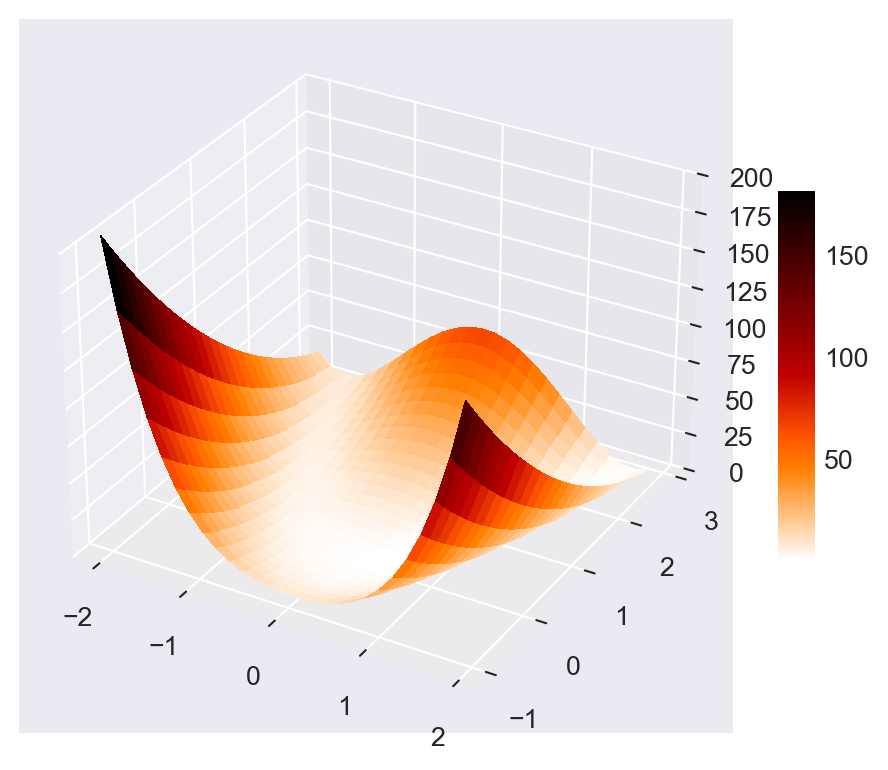
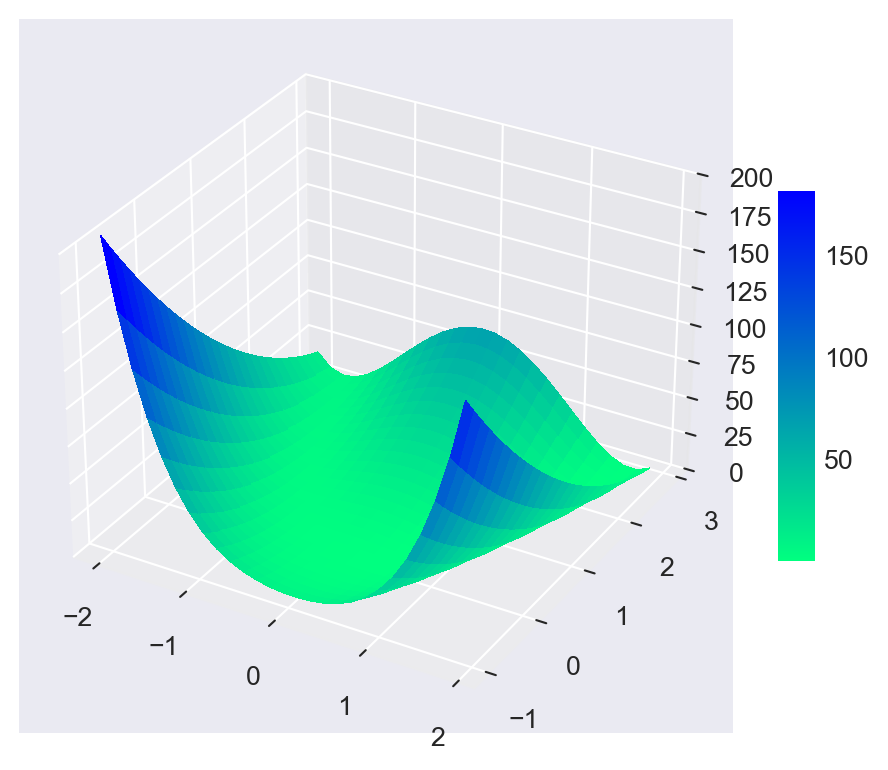
Chapter 5 is updated.

Changed region(s): [[0.0912, 0.3117, 0.7297, 0.8104], [0.8514, 0.2494, 0.9426, 0.7481]]

diff --git a/docs/Chapter0-StatFunctions.html b/docs/Chapter0-StatFunctions.html
@@ -483,7 +483,7 @@ window.Quarto = {
 <section id="introduction" class="level2" data-number="5.1">
 <h2 data-number="5.1" class="anchored" data-anchor-id="introduction"><span class="header-section-number">5.1</span> Introduction</h2>
 <p>In this chapter, we first introduce statistical functions from NumPy and SciPy. These libraries offer a wide range of tools for generating random numbers, evaluating probability density and cumulative distribution functions, and determining quantiles/percentiles. We then explore optimization and root-finding functions available in SciPy.</p>
-<div id="fadbeeae" class="cell" data-execution_count="1">
+<div id="ef7dda58" class="cell" data-execution_count="1">
 <div class="sourceCode cell-code" id="cb1"><pre class="sourceCode python code-with-copy"><code class="sourceCode python"><span id="cb1-1"><a href="#cb1-1" aria-hidden="true" tabindex="-1"></a><span class="im">import</span> numpy <span class="im">as</span> np</span>
 <span id="cb1-2"><a href="#cb1-2" aria-hidden="true" tabindex="-1"></a><span class="im">import</span> scipy.stats <span class="im">as</span> stats</span>
 <span id="cb1-3"><a href="#cb1-3" aria-hidden="true" tabindex="-1"></a><span class="im">import</span> scipy.optimize <span class="im">as</span> optimize</span>
@@ -517,76 +517,76 @@ window.Quarto = {
 <li><code>uniform</code>: Generates draws from the interval <span class="math inline">\((0,1)\)</span>.</li>
 </ul>
 <p>Some illustrative examples are provided below.</p>
-<div id="734fd467" class="cell" data-execution_count="3">
+<div id="d74a49e9" class="cell" data-execution_count="3">
 <div class="sourceCode cell-code" id="cb2"><pre class="sourceCode python code-with-copy"><code class="sourceCode python"><span id="cb2-1"><a href="#cb2-1" aria-hidden="true" tabindex="-1"></a><span class="co"># Generate 3x2x3 array of draws from the uniform distribution on [0,1)</span></span>
 <span id="cb2-2"><a href="#cb2-2" aria-hidden="true" tabindex="-1"></a>x <span class="op">=</span> np.random.rand(<span class="dv">3</span>, <span class="dv">2</span>, <span class="dv">3</span>)</span>
 <span id="cb2-3"><a href="#cb2-3" aria-hidden="true" tabindex="-1"></a>x</span></code><button title="Copy to Clipboard" class="code-copy-button"><i class="bi"></i></button></pre></div>
-<div class="cell-output cell-output-display" data-execution_count="30">
-<pre><code>array([[[0.2874544 , 0.80881193, 0.95971886],
-        [0.43911861, 0.2644765 , 0.54531665]],
+<div class="cell-output cell-output-display" data-execution_count="3">
+<pre><code>array([[[0.60784483, 0.02573374, 0.81731308],
+        [0.59381353, 0.52406335, 0.12350366]],
 
-       [[0.83466171, 0.05206236, 0.16116873],
-        [0.04260948, 0.0053757 , 0.37884922]],
+       [[0.978141  , 0.55747264, 0.40465122],
+        [0.33204797, 0.03814546, 0.27382862]],
 
-       [[0.97719024, 0.16863573, 0.68919887],
-        [0.553627  , 0.29353745, 0.09474167]]])</code></pre>
+       [[0.22703661, 0.03394159, 0.63700784],
+        [0.12510244, 0.84140556, 0.85537359]]])</code></pre>
 </div>
 </div>
-<div id="0a9f1bea" class="cell" data-execution_count="4">
+<div id="16f7a7fe" class="cell" data-execution_count="4">
 <div class="sourceCode cell-code" id="cb4"><pre class="sourceCode python code-with-copy"><code class="sourceCode python"><span id="cb4-1"><a href="#cb4-1" aria-hidden="true" tabindex="-1"></a><span class="co"># Generate 3x2 array of draws from the standard normal distribution</span></span>
 <span id="cb4-2"><a href="#cb4-2" aria-hidden="true" tabindex="-1"></a>y <span class="op">=</span> np.random.standard_normal((<span class="dv">3</span>, <span class="dv">2</span>))</span>
 <span id="cb4-3"><a href="#cb4-3" aria-hidden="true" tabindex="-1"></a>y</span></code><button title="Copy to Clipboard" class="code-copy-button"><i class="bi"></i></button></pre></div>
-<div class="cell-output cell-output-display" data-execution_count="31">
-<pre><code>array([[ 0.06119195, -0.02129899],
-       [-0.28799024,  0.0891746 ],
-       [ 0.52285773,  0.57279645]])</code></pre>
+<div class="cell-output cell-output-display" data-execution_count="4">
+<pre><code>array([[ 0.68428068, -0.0148527 ],
+       [ 1.3792982 , -0.90628224],
+       [ 0.03147799, -0.18123082]])</code></pre>
 </div>
 </div>
-<div id="690a88ea" class="cell" data-execution_count="5">
+<div id="b3f88e48" class="cell" data-execution_count="5">
 <div class="sourceCode cell-code" id="cb6"><pre class="sourceCode python code-with-copy"><code class="sourceCode python"><span id="cb6-1"><a href="#cb6-1" aria-hidden="true" tabindex="-1"></a><span class="co"># Randomly order the elements of an array</span></span>
 <span id="cb6-2"><a href="#cb6-2" aria-hidden="true" tabindex="-1"></a>x <span class="op">=</span> np.arange(<span class="dv">10</span>)</span>
 <span id="cb6-3"><a href="#cb6-3" aria-hidden="true" tabindex="-1"></a>np.random.shuffle(x)</span>
 <span id="cb6-4"><a href="#cb6-4" aria-hidden="true" tabindex="-1"></a>x</span></code><button title="Copy to Clipboard" class="code-copy-button"><i class="bi"></i></button></pre></div>
-<div class="cell-output cell-output-display" data-execution_count="32">
-<pre><code>array([3, 9, 8, 7, 5, 0, 4, 6, 2, 1])</code></pre>
+<div class="cell-output cell-output-display" data-execution_count="5">
+<pre><code>array([6, 8, 7, 9, 1, 2, 0, 4, 5, 3])</code></pre>
 </div>
 </div>
-<div id="58be579f" class="cell" data-execution_count="6">
+<div id="6bd0f309" class="cell" data-execution_count="6">
 <div class="sourceCode cell-code" id="cb8"><pre class="sourceCode python code-with-copy"><code class="sourceCode python"><span id="cb8-1"><a href="#cb8-1" aria-hidden="true" tabindex="-1"></a><span class="co"># Generate 10 draws from N(mu, sigma)</span></span>
 <span id="cb8-2"><a href="#cb8-2" aria-hidden="true" tabindex="-1"></a>mu, sigma <span class="op">=</span> <span class="dv">2</span>, <span class="fl">1.5</span></span>
 <span id="cb8-3"><a href="#cb8-3" aria-hidden="true" tabindex="-1"></a>s <span class="op">=</span> np.random.normal(mu, sigma, <span class="dv">10</span>)</span>
 <span id="cb8-4"><a href="#cb8-4" aria-hidden="true" tabindex="-1"></a>s</span></code><button title="Copy to Clipboard" class="code-copy-button"><i class="bi"></i></button></pre></div>
-<div class="cell-output cell-output-display" data-execution_count="33">
-<pre><code>array([-0.64055754, -0.54146874,  1.45642873,  3.69117893,  5.27574522,
-        0.22006583,  2.50140454,  0.45741679,  1.74725663,  0.50157746])</code></pre>
+<div class="cell-output cell-output-display" data-execution_count="6">
+<pre><code>array([2.3078164 , 2.97309842, 4.91422971, 2.36405954, 2.59558455,
+       2.23165732, 1.78140857, 0.99669208, 2.18192879, 4.70281642])</code></pre>
 </div>
 </div>
-<div id="9778f766" class="cell" data-execution_count="7">
+<div id="e4f44bb7" class="cell" data-execution_count="7">
 <div class="sourceCode cell-code" id="cb10"><pre class="sourceCode python code-with-copy"><code class="sourceCode python"><span id="cb10-1"><a href="#cb10-1" aria-hidden="true" tabindex="-1"></a><span class="co"># Generate 20 draws from Binomial(n, p)</span></span>
 <span id="cb10-2"><a href="#cb10-2" aria-hidden="true" tabindex="-1"></a>n, p <span class="op">=</span> <span class="dv">10</span>, <span class="fl">0.5</span>  <span class="co"># number of trials, probability of each trial</span></span>
 <span id="cb10-3"><a href="#cb10-3" aria-hidden="true" tabindex="-1"></a>s <span class="op">=</span> np.random.binomial(n, p, <span class="dv">20</span>)</span>
 <span id="cb10-4"><a href="#cb10-4" aria-hidden="true" tabindex="-1"></a>s</span></code><button title="Copy to Clipboard" class="code-copy-button"><i class="bi"></i></button></pre></div>
-<div class="cell-output cell-output-display" data-execution_count="34">
-<pre><code>array([4, 4, 4, 7, 4, 4, 5, 3, 9, 5, 6, 3, 3, 4, 6, 4, 1, 4, 4, 4])</code></pre>
+<div class="cell-output cell-output-display" data-execution_count="7">
+<pre><code>array([4, 4, 3, 7, 5, 4, 4, 4, 4, 7, 4, 5, 7, 4, 6, 6, 5, 4, 5, 5])</code></pre>
 </div>
 </div>
-<div id="b4cf0391" class="cell" data-execution_count="8">
+<div id="b4fd8973" class="cell" data-execution_count="8">
 <div class="sourceCode cell-code" id="cb12"><pre class="sourceCode python code-with-copy"><code class="sourceCode python"><span id="cb12-1"><a href="#cb12-1" aria-hidden="true" tabindex="-1"></a><span class="co"># Generate 4 draws from the chi-squared distribution with 2 degrees of freedom</span></span>
 <span id="cb12-2"><a href="#cb12-2" aria-hidden="true" tabindex="-1"></a>nu, n <span class="op">=</span> <span class="dv">2</span>, <span class="dv">4</span>  <span class="co"># degrees of freedom, number of draws</span></span>
 <span id="cb12-3"><a href="#cb12-3" aria-hidden="true" tabindex="-1"></a>np.random.chisquare(nu, n)</span></code><button title="Copy to Clipboard" class="code-copy-button"><i class="bi"></i></button></pre></div>
-<div class="cell-output cell-output-display" data-execution_count="35">
-<pre><code>array([0.59588492, 3.29344885, 4.28623073, 2.06828554])</code></pre>
+<div class="cell-output cell-output-display" data-execution_count="8">
+<pre><code>array([0.49767112, 0.65872583, 2.37193168, 0.00393188])</code></pre>
 </div>
 </div>
-<div id="0e217408" class="cell" data-execution_count="9">
+<div id="4a508341" class="cell" data-execution_count="9">
 <div class="sourceCode cell-code" id="cb14"><pre class="sourceCode python code-with-copy"><code class="sourceCode python"><span id="cb14-1"><a href="#cb14-1" aria-hidden="true" tabindex="-1"></a><span class="co"># Generate 5 draws from the Student's t distribution with 10 degrees of freedom</span></span>
 <span id="cb14-2"><a href="#cb14-2" aria-hidden="true" tabindex="-1"></a>np.random.standard_t(df<span class="op">=</span><span class="dv">10</span>, size<span class="op">=</span><span class="dv">5</span>)</span></code><button title="Copy to Clipboard" class="code-copy-button"><i class="bi"></i></button></pre></div>
-<div class="cell-output cell-output-display" data-execution_count="36">
-<pre><code>array([-2.05722723,  0.33383089, -0.89291544, -1.65027523, -0.25693324])</code></pre>
+<div class="cell-output cell-output-display" data-execution_count="9">
+<pre><code>array([-1.96610895,  0.08689912, -0.61987483,  2.14423721,  0.91679261])</code></pre>
 </div>
 </div>
 <p>Computer-simulated random numbers are not truly random; they are generally referred to as pseudo-random numbers. The function <code>np.random.seed()</code> is useful for initializing the random number generator, allowing for the generation of the same sequence of random numbers by setting the seed. In the example below, we set the seed to 12345 and generate 5 random draws from the standard normal distribution twice. Since we use the same seed in each case, we obtain the same random numbers in both instances.</p>
-<div id="2f649ada" class="cell" data-execution_count="10">
+<div id="a81356cf" class="cell" data-execution_count="10">
 <div class="sourceCode cell-code" id="cb16"><pre class="sourceCode python code-with-copy"><code class="sourceCode python"><span id="cb16-1"><a href="#cb16-1" aria-hidden="true" tabindex="-1"></a><span class="co"># Set the seed for reproducibility</span></span>
 <span id="cb16-2"><a href="#cb16-2" aria-hidden="true" tabindex="-1"></a>np.random.seed(<span class="dv">12345</span>)</span>
 <span id="cb16-3"><a href="#cb16-3" aria-hidden="true" tabindex="-1"></a>x <span class="op">=</span> np.random.randn(<span class="dv">5</span>)</span>
@@ -594,10 +594,10 @@ window.Quarto = {
 <span id="cb16-5"><a href="#cb16-5" aria-hidden="true" tabindex="-1"></a>np.random.seed(<span class="dv">12345</span>)</span>
 <span id="cb16-6"><a href="#cb16-6" aria-hidden="true" tabindex="-1"></a>y <span class="op">=</span> np.random.randn(<span class="dv">5</span>)</span>
 <span id="cb16-7"><a href="#cb16-7" aria-hidden="true" tabindex="-1"></a>y</span></code><button title="Copy to Clipboard" class="code-copy-button"><i class="bi"></i></button></pre></div>
-<div class="cell-output cell-output-display" data-execution_count="37">
+<div class="cell-output cell-output-display" data-execution_count="10">
 <pre><code>array([-0.20470766,  0.47894334, -0.51943872, -0.5557303 ,  1.96578057])</code></pre>
 </div>
-<div class="cell-output cell-output-display" data-execution_count="37">
+<div class="cell-output cell-output-display" data-execution_count="10">
 <pre><code>array([-0.20470766,  0.47894334, -0.51943872, -0.5557303 ,  1.96578057])</code></pre>
 </div>
 </div>
@@ -631,35 +631,35 @@ window.Quarto = {
 <li><code>moment</code>: Returns the <span class="math inline">\(n\)</span>th non-central moment of the distribution.</li>
 </ul>
 <p>The documentation on these methods is given at <a href="https://docs.scipy.org/doc/scipy/reference/stats.html">Statistical functions</a>. Some illustrative examples are shown below.</p>
-<div id="b62f1051" class="cell" data-execution_count="11">
+<div id="13a346e2" class="cell" data-execution_count="11">
 <div class="sourceCode cell-code" id="cb19"><pre class="sourceCode python code-with-copy"><code class="sourceCode python"><span id="cb19-1"><a href="#cb19-1" aria-hidden="true" tabindex="-1"></a><span class="co"># Generate 4 draws from N(2,9)</span></span>
 <span id="cb19-2"><a href="#cb19-2" aria-hidden="true" tabindex="-1"></a>stats.norm.rvs(loc<span class="op">=</span><span class="dv">2</span>, scale<span class="op">=</span><span class="dv">3</span>, size<span class="op">=</span><span class="dv">4</span>)</span></code><button title="Copy to Clipboard" class="code-copy-button"><i class="bi"></i></button></pre></div>
-<div class="cell-output cell-output-display" data-execution_count="38">
+<div class="cell-output cell-output-display" data-execution_count="11">
 <pre><code>array([6.1802175 , 2.27872363, 2.84523846, 4.3070677 ])</code></pre>
 </div>
 </div>
-<div id="70d4fc15" class="cell" data-execution_count="12">
+<div id="32a9c777" class="cell" data-execution_count="12">
 <div class="sourceCode cell-code" id="cb21"><pre class="sourceCode python code-with-copy"><code class="sourceCode python"><span id="cb21-1"><a href="#cb21-1" aria-hidden="true" tabindex="-1"></a><span class="co"># Evaluate the pdf of the standard normal distribution at 1.96</span></span>
 <span id="cb21-2"><a href="#cb21-2" aria-hidden="true" tabindex="-1"></a>stats.norm.pdf(<span class="fl">1.96</span>, loc<span class="op">=</span><span class="dv">0</span>, scale<span class="op">=</span><span class="dv">1</span>)</span></code><button title="Copy to Clipboard" class="code-copy-button"><i class="bi"></i></button></pre></div>
-<div class="cell-output cell-output-display" data-execution_count="39">
+<div class="cell-output cell-output-display" data-execution_count="12">
 <pre><code>0.058440944333451476</code></pre>
 </div>
 </div>
-<div id="741fb9cb" class="cell" data-execution_count="13">
+<div id="ad648c47" class="cell" data-execution_count="13">
 <div class="sourceCode cell-code" id="cb23"><pre class="sourceCode python code-with-copy"><code class="sourceCode python"><span id="cb23-1"><a href="#cb23-1" aria-hidden="true" tabindex="-1"></a><span class="co"># Evaluate the cdf of the standard normal distribution at -1.96</span></span>
 <span id="cb23-2"><a href="#cb23-2" aria-hidden="true" tabindex="-1"></a>stats.norm.cdf(<span class="op">-</span><span class="fl">1.96</span>, loc<span class="op">=</span><span class="dv">0</span>, scale<span class="op">=</span><span class="dv">1</span>)</span></code><button title="Copy to Clipboard" class="code-copy-button"><i class="bi"></i></button></pre></div>
-<div class="cell-output cell-output-display" data-execution_count="40">
+<div class="cell-output cell-output-display" data-execution_count="13">
 <pre><code>0.024997895148220435</code></pre>
 </div>
 </div>
-<div id="80d6bfda" class="cell" data-execution_count="14">
+<div id="5aa00f5e" class="cell" data-execution_count="14">
 <div class="sourceCode cell-code" id="cb25"><pre class="sourceCode python code-with-copy"><code class="sourceCode python"><span id="cb25-1"><a href="#cb25-1" aria-hidden="true" tabindex="-1"></a><span class="co"># Return the 0.95 quantile of N(0,1)</span></span>
 <span id="cb25-2"><a href="#cb25-2" aria-hidden="true" tabindex="-1"></a>stats.norm.ppf(<span class="fl">0.95</span>, loc<span class="op">=</span><span class="dv">0</span>, scale<span class="op">=</span><span class="dv">1</span>)</span></code><button title="Copy to Clipboard" class="code-copy-button"><i class="bi"></i></button></pre></div>
-<div class="cell-output cell-output-display" data-execution_count="41">
+<div class="cell-output cell-output-display" data-execution_count="14">
 <pre><code>1.6448536269514722</code></pre>
 </div>
 </div>
-<div id="6aea365b" class="cell" data-execution_count="15">
+<div id="5bdb8f6d" class="cell" data-execution_count="15">
 <div class="sourceCode cell-code" id="cb27"><pre class="sourceCode python code-with-copy"><code class="sourceCode python"><span id="cb27-1"><a href="#cb27-1" aria-hidden="true" tabindex="-1"></a><span class="co"># Fit the normal distribution to data</span></span>
 <span id="cb27-2"><a href="#cb27-2" aria-hidden="true" tabindex="-1"></a>x <span class="op">=</span> stats.norm.rvs(loc<span class="op">=</span><span class="dv">1</span>, scale<span class="op">=</span><span class="dv">5</span>, size<span class="op">=</span><span class="dv">1000</span>)</span>
 <span id="cb27-3"><a href="#cb27-3" aria-hidden="true" tabindex="-1"></a>location, scale <span class="op">=</span> stats.norm.fit(x)</span>
@@ -668,45 +668,45 @@ window.Quarto = {
 <pre><code>(location, scale)= (0.9694060807470053, 4.905952684899126)</code></pre>
 </div>
 </div>
-<div id="aa9279f6" class="cell" data-execution_count="16">
+<div id="fbbd436a" class="cell" data-execution_count="16">
 <div class="sourceCode cell-code" id="cb29"><pre class="sourceCode python code-with-copy"><code class="sourceCode python"><span id="cb29-1"><a href="#cb29-1" aria-hidden="true" tabindex="-1"></a><span class="co"># Return the median of N(3,1)</span></span>
 <span id="cb29-2"><a href="#cb29-2" aria-hidden="true" tabindex="-1"></a>stats.norm.median(loc<span class="op">=</span><span class="dv">3</span>, scale<span class="op">=</span><span class="dv">1</span>)</span></code><button title="Copy to Clipboard" class="code-copy-button"><i class="bi"></i></button></pre></div>
-<div class="cell-output cell-output-display" data-execution_count="43">
+<div class="cell-output cell-output-display" data-execution_count="16">
 <pre><code>3.0</code></pre>
 </div>
 </div>
-<div id="528afd22" class="cell" data-execution_count="17">
+<div id="608d0f38" class="cell" data-execution_count="17">
 <div class="sourceCode cell-code" id="cb31"><pre class="sourceCode python code-with-copy"><code class="sourceCode python"><span id="cb31-1"><a href="#cb31-1" aria-hidden="true" tabindex="-1"></a><span class="co"># Return the mean of N(3,4)</span></span>
 <span id="cb31-2"><a href="#cb31-2" aria-hidden="true" tabindex="-1"></a>stats.norm.mean(loc<span class="op">=</span><span class="dv">3</span>, scale<span class="op">=</span><span class="dv">2</span>)</span></code><button title="Copy to Clipboard" class="code-copy-button"><i class="bi"></i></button></pre></div>
-<div class="cell-output cell-output-display" data-execution_count="44">
+<div class="cell-output cell-output-display" data-execution_count="17">
 <pre><code>3.0</code></pre>
 </div>
 </div>
-<div id="810bc05a" class="cell" data-execution_count="18">
+<div id="5f12ba84" class="cell" data-execution_count="18">
 <div class="sourceCode cell-code" id="cb33"><pre class="sourceCode python code-with-copy"><code class="sourceCode python"><span id="cb33-1"><a href="#cb33-1" aria-hidden="true" tabindex="-1"></a><span class="co"># Return the mean of chi-squared distribution with 4 degrees of freedom</span></span>
 <span id="cb33-2"><a href="#cb33-2" aria-hidden="true" tabindex="-1"></a>stats.chi2.mean(df<span class="op">=</span><span class="dv">4</span>)</span></code><button title="Copy to Clipboard" class="code-copy-button"><i class="bi"></i></button></pre></div>
-<div class="cell-output cell-output-display" data-execution_count="45">
+<div class="cell-output cell-output-display" data-execution_count="18">
 <pre><code>4.0</code></pre>
 </div>
 </div>
-<div id="69fd376c" class="cell" data-execution_count="19">
+<div id="7e70bf1b" class="cell" data-execution_count="19">
 <div class="sourceCode cell-code" id="cb35"><pre class="sourceCode python code-with-copy"><code class="sourceCode python"><span id="cb35-1"><a href="#cb35-1" aria-hidden="true" tabindex="-1"></a><span class="co"># Return the variance of N(3,4)</span></span>
 <span id="cb35-2"><a href="#cb35-2" aria-hidden="true" tabindex="-1"></a>stats.norm.var(loc<span class="op">=</span><span class="dv">3</span>, scale<span class="op">=</span><span class="dv">2</span>)</span></code><button title="Copy to Clipboard" class="code-copy-button"><i class="bi"></i></button></pre></div>
-<div class="cell-output cell-output-display" data-execution_count="46">
+<div class="cell-output cell-output-display" data-execution_count="19">
 <pre><code>4.0</code></pre>
 </div>
 </div>
-<div id="eff8051d" class="cell" data-execution_count="20">
+<div id="00e7574b" class="cell" data-execution_count="20">
 <div class="sourceCode cell-code" id="cb37"><pre class="sourceCode python code-with-copy"><code class="sourceCode python"><span id="cb37-1"><a href="#cb37-1" aria-hidden="true" tabindex="-1"></a><span class="co"># Return the standard deviation of N(3,4)</span></span>
 <span id="cb37-2"><a href="#cb37-2" aria-hidden="true" tabindex="-1"></a>stats.norm.std(loc<span class="op">=</span><span class="dv">3</span>, scale<span class="op">=</span><span class="dv">2</span>)</span></code><button title="Copy to Clipboard" class="code-copy-button"><i class="bi"></i></button></pre></div>
-<div class="cell-output cell-output-display" data-execution_count="47">
+<div class="cell-output cell-output-display" data-execution_count="20">
 <pre><code>2.0</code></pre>
 </div>
 </div>
-<div id="43abbb39" class="cell" data-execution_count="21">
+<div id="491fa7cc" class="cell" data-execution_count="21">
 <div class="sourceCode cell-code" id="cb39"><pre class="sourceCode python code-with-copy"><code class="sourceCode python"><span id="cb39-1"><a href="#cb39-1" aria-hidden="true" tabindex="-1"></a><span class="co"># Return the second non-central moment of N(0,1)</span></span>
 <span id="cb39-2"><a href="#cb39-2" aria-hidden="true" tabindex="-1"></a>stats.norm.moment(<span class="dv">2</span>, loc<span class="op">=</span><span class="dv">0</span>, scale<span class="op">=</span><span class="dv">1</span>)</span></code><button title="Copy to Clipboard" class="code-copy-button"><i class="bi"></i></button></pre></div>
-<div class="cell-output cell-output-display" data-execution_count="48">
+<div class="cell-output cell-output-display" data-execution_count="21">
 <pre><code>1.0</code></pre>
 </div>
 </div>
@@ -722,7 +722,7 @@ window.Quarto = {
 <li><code>optimize.root</code>: Finds a root of a vector function.</li>
 </ul>
 <p>The syntax for the <code>optimize_scalar</code> function is as follows:</p>
-<div id="16bb58ff" class="cell" data-execution_count="23">
+<div id="3320a315" class="cell" data-execution_count="23">
 <div class="sourceCode cell-code" id="cb41"><pre class="sourceCode python code-with-copy"><code class="sourceCode python"><span id="cb41-1"><a href="#cb41-1" aria-hidden="true" tabindex="-1"></a>optimize_scalar(fun, bracket<span class="op">=</span><span class="va">None</span>, bounds<span class="op">=</span><span class="va">None</span>, args<span class="op">=</span>(), method<span class="op">=</span><span class="st">'brent'</span>, tol<span class="op">=</span><span class="va">None</span>, options<span class="op">=</span><span class="va">None</span>)</span></code><button title="Copy to Clipboard" class="code-copy-button"><i class="bi"></i></button></pre></div>
 </div>
 <p>Here, <code>fun</code> is the objective function to be minimized. The <code>bracket</code> argument is a tuple specifying the interval that contains a minimum of the function. The <code>bounds</code> argument is a tuple specifying the bounds on the variable for the bounded minimization method. The <code>method</code> argument specifies the type of solver. It can take one of the following values: <code>'brent'</code>, <code>'bounded'</code>, or <code>'golden'</code>.</p>
@@ -754,7 +754,7 @@ Figure&nbsp;5.1: Plot of <span class="math inline">\(f(x)=-x^2e^{-x}\)</span>
 </div>
 </div>
 <p><a href="#fig-fig5-f1" class="quarto-xref">Figure&nbsp;<span>5.1</span></a> indicates that the function has a minimum at <span class="math inline">\(x=2\)</span>. We can use the <code>minimize_scalar</code> function to confirm that <span class="math inline">\(x=2\)</span> is indeed the minimum. In the code below, we first define the function <code>f(x)</code>, then use the <code>minimize_scalar</code> function with the <code>bounded</code> method to find the value of <span class="math inline">\(x\)</span> that minimizes <span class="math inline">\(f(x)\)</span> over the interval <span class="math inline">\([0, 10]\)</span>.</p>
-<div id="9772d2a9" class="cell" data-execution_count="25">
+<div id="9af89367" class="cell" data-execution_count="25">
 <div class="sourceCode cell-code" id="cb43"><pre class="sourceCode python code-with-copy"><code class="sourceCode python"><span id="cb43-1"><a href="#cb43-1" aria-hidden="true" tabindex="-1"></a><span class="co"># Define the objective function</span></span>
 <span id="cb43-2"><a href="#cb43-2" aria-hidden="true" tabindex="-1"></a><span class="kw">def</span> f(x):</span>
 <span id="cb43-3"><a href="#cb43-3" aria-hidden="true" tabindex="-1"></a>    <span class="cf">return</span> <span class="op">-</span>x<span class="op">**</span><span class="dv">2</span> <span class="op">*</span> np.exp(<span class="op">-</span>x)</span>
@@ -769,7 +769,7 @@ Minimum value of f(x): -0.5413</code></pre>
 </div>
 </div>
 <p>The syntax for the <code>minimize</code> function is as follows:</p>
-<div id="e5a283b0" class="cell" data-execution_count="26">
+<div id="d6c9f31e" class="cell" data-execution_count="26">
 <div class="sourceCode cell-code" id="cb45"><pre class="sourceCode python code-with-copy"><code class="sourceCode python"><span id="cb45-1"><a href="#cb45-1" aria-hidden="true" tabindex="-1"></a>optimize.minimize(fun, x0, args<span class="op">=</span>(), method<span class="op">=</span><span class="va">None</span>, jac<span class="op">=</span><span class="va">None</span>, hess<span class="op">=</span><span class="va">None</span>, hessp<span class="op">=</span><span class="va">None</span>, bounds<span class="op">=</span><span class="va">None</span>, constraints<span class="op">=</span>(), tol<span class="op">=</span><span class="va">None</span>, callback<span class="op">=</span><span class="va">None</span>, options<span class="op">=</span><span class="va">None</span>)</span></code><button title="Copy to Clipboard" class="code-copy-button"><i class="bi"></i></button></pre></div>
 </div>
 <p>Some of the arguments that we need to supply to the <code>minimize</code> function are listed below.</p>
@@ -818,8 +818,8 @@ Figure&nbsp;5.2: The contour plot of the Rosenbrock function
 </div>
 <div id="cell-fig-fig5-rosen3d" class="cell" data-execution_count="28">
 <div class="sourceCode cell-code" id="cb47"><pre class="sourceCode python code-with-copy"><code class="sourceCode python"><span id="cb47-1"><a href="#cb47-1" aria-hidden="true" tabindex="-1"></a><span class="co"># Initialize figure </span></span>
-<span id="cb47-2"><a href="#cb47-2" aria-hidden="true" tabindex="-1"></a>figRos <span class="op">=</span> plt.figure(figsize<span class="op">=</span>(<span class="dv">6</span>, <span class="dv">5</span>))</span>
-<span id="cb47-3"><a href="#cb47-3" aria-hidden="true" tabindex="-1"></a>axRos <span class="op">=</span> figRos.add_subplot(<span class="dv">111</span>, projection<span class="op">=</span><span class="st">'3d'</span>)</span>
+<span id="cb47-2"><a href="#cb47-2" aria-hidden="true" tabindex="-1"></a>fig <span class="op">=</span> plt.figure(figsize<span class="op">=</span>(<span class="dv">6</span>, <span class="dv">5</span>))</span>
+<span id="cb47-3"><a href="#cb47-3" aria-hidden="true" tabindex="-1"></a>ax <span class="op">=</span> fig.add_subplot(<span class="dv">111</span>, projection<span class="op">=</span><span class="st">'3d'</span>)</span>
 <span id="cb47-4"><a href="#cb47-4" aria-hidden="true" tabindex="-1"></a></span>
 <span id="cb47-5"><a href="#cb47-5" aria-hidden="true" tabindex="-1"></a><span class="co"># Evaluate function</span></span>
 <span id="cb47-6"><a href="#cb47-6" aria-hidden="true" tabindex="-1"></a>X <span class="op">=</span> np.arange(<span class="op">-</span><span class="dv">2</span>, <span class="dv">2</span>, <span class="fl">0.15</span>)</span>
@@ -828,10 +828,10 @@ Figure&nbsp;5.2: The contour plot of the Rosenbrock function
 <span id="cb47-9"><a href="#cb47-9" aria-hidden="true" tabindex="-1"></a>Z <span class="op">=</span> rosen(X,Y)</span>
 <span id="cb47-10"><a href="#cb47-10" aria-hidden="true" tabindex="-1"></a></span>
 <span id="cb47-11"><a href="#cb47-11" aria-hidden="true" tabindex="-1"></a><span class="co"># Plot the surface</span></span>
-<span id="cb47-12"><a href="#cb47-12" aria-hidden="true" tabindex="-1"></a>surf <span class="op">=</span> axRos.plot_surface(X, Y, Z, cmap<span class="op">=</span>cm.gist_heat_r,</span>
+<span id="cb47-12"><a href="#cb47-12" aria-hidden="true" tabindex="-1"></a>surf <span class="op">=</span> ax.plot_surface(X, Y, Z, cmap<span class="op">=</span>cm.winter_r,</span>
 <span id="cb47-13"><a href="#cb47-13" aria-hidden="true" tabindex="-1"></a>                       linewidth<span class="op">=</span><span class="dv">0</span>, antialiased<span class="op">=</span><span class="va">False</span>)</span>
-<span id="cb47-14"><a href="#cb47-14" aria-hidden="true" tabindex="-1"></a>axRos.set_zlim(<span class="dv">0</span>, <span class="dv">200</span>)</span>
-<span id="cb47-15"><a href="#cb47-15" aria-hidden="true" tabindex="-1"></a>figRos.colorbar(surf, shrink<span class="op">=</span><span class="fl">0.5</span>, aspect<span class="op">=</span><span class="dv">10</span>)</span>
+<span id="cb47-14"><a href="#cb47-14" aria-hidden="true" tabindex="-1"></a>ax.set_zlim(<span class="dv">0</span>, <span class="dv">200</span>)</span>
+<span id="cb47-15"><a href="#cb47-15" aria-hidden="true" tabindex="-1"></a>fig.colorbar(surf, shrink<span class="op">=</span><span class="fl">0.5</span>, aspect<span class="op">=</span><span class="dv">10</span>)</span>
 <span id="cb47-16"><a href="#cb47-16" aria-hidden="true" tabindex="-1"></a>plt.show()</span></code><button title="Copy to Clipboard" class="code-copy-button"><i class="bi"></i></button></pre></div>
 <div class="cell-output cell-output-display">
 <div id="fig-fig5-rosen3d" class="quarto-float quarto-figure quarto-figure-center anchored">
@@ -847,7 +847,7 @@ Figure&nbsp;5.3: The 3D surface plot of the Rosenbrock function
 </div>
 </div>
 <p>Next, we use the <code>minimize</code> function to find the values of <span class="math inline">\(x\)</span> and <span class="math inline">\(y\)</span> that minimize the Rosenbrock function. We start with an initial guess of <span class="math inline">\((x,y)=(0,0)\)</span> and use the BFGS algorithm to find the minimum.</p>
-<div id="fd9c02fa" class="cell" data-execution_count="29">
+<div id="ca9a7d56" class="cell" data-execution_count="29">
 <div class="sourceCode cell-code" id="cb48"><pre class="sourceCode python code-with-copy"><code class="sourceCode python"><span id="cb48-1"><a href="#cb48-1" aria-hidden="true" tabindex="-1"></a><span class="co"># Define the objective function (e.g., Rosenbrock function)</span></span>
 <span id="cb48-2"><a href="#cb48-2" aria-hidden="true" tabindex="-1"></a><span class="kw">def</span> rosen(theta):</span>
 <span id="cb48-3"><a href="#cb48-3" aria-hidden="true" tabindex="-1"></a>    <span class="cf">return</span> (<span class="dv">1</span> <span class="op">-</span> theta[<span class="dv">0</span>])<span class="op">**</span><span class="dv">2</span> <span class="op">+</span> <span class="dv">8</span> <span class="op">*</span> (theta[<span class="dv">1</span>] <span class="op">-</span> theta[<span class="dv">0</span>]<span class="op">**</span><span class="dv">2</span>)<span class="op">**</span><span class="dv">2</span></span>
